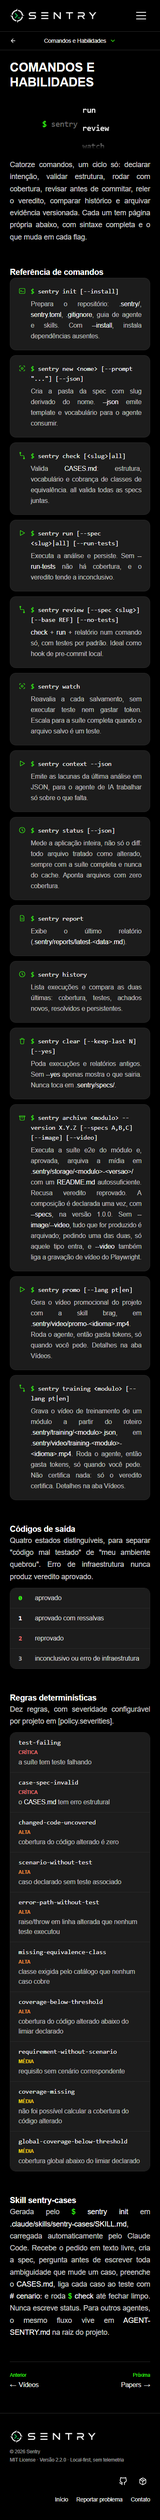
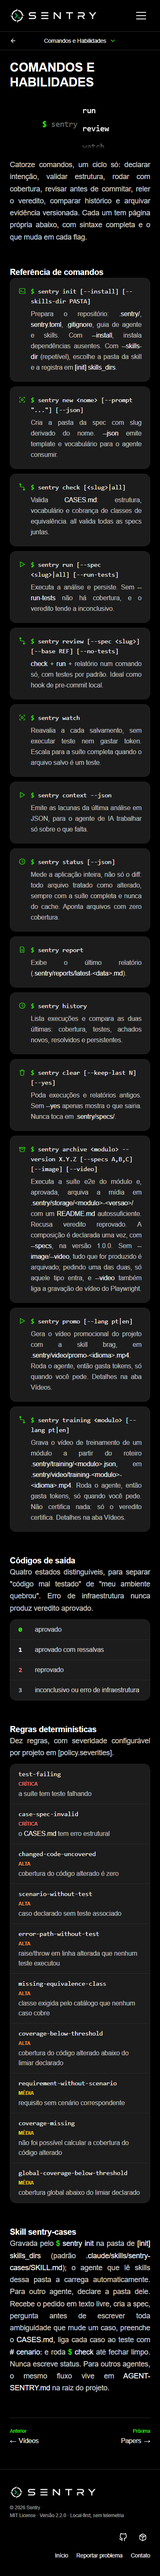
chore(archive): refaz a evidência visual do módulo aplicacao v1.0.0 com a skill configurável
Setup com o bloco [init] e o texto novo da skill, Comandos com a entrada do
init e a seção da skill. Carimbo do commit que contém o que as imagens mostram.

diff --git a/.sentry/storage/aplicacao-1.0.0/README.md b/.sentry/storage/aplicacao-1.0.0/README.md
@@ -1,7 +1,7 @@
 # Módulo aplicacao — v1.0.0
 
-- Arquivado em: 02/10/2026 16:05:55 (UTC-4)
-- Commit: fcbdc03182a7
+- Arquivado em: 02/10/2026 16:29:26 (UTC-4)
+- Commit: 9b266a585a1f
 - Veredito: sem certificação — registro visual
 
 ## Rotas fotografadas
